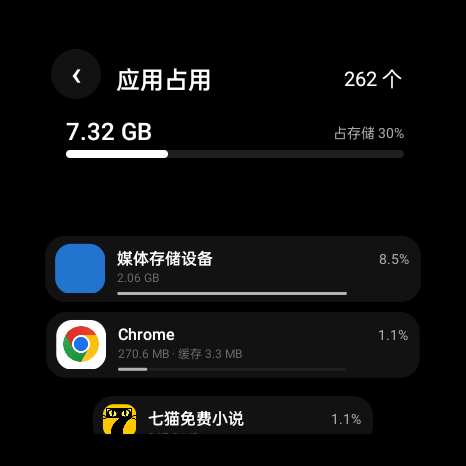
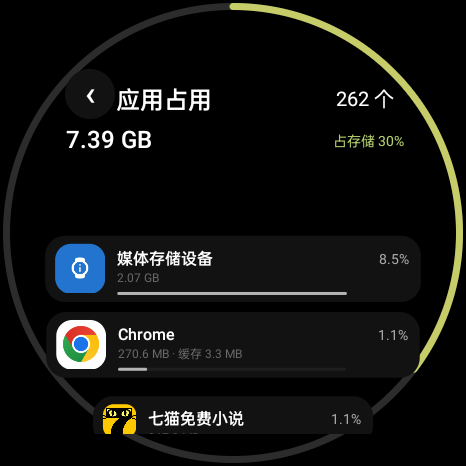
README 更新到 v2.1.3：表圈圆环/动效选择/方表双布局/MediaSession/WMA 转码/设置页；截图换新

diff --git a/README.md b/README.md
@@ -1,35 +1,43 @@
 # WatchSuite · 腕上管家
 
-一款为**圆形智能手表**打造的本地工具合集：纯 Java + Canvas 手绘界面，零第三方依赖，不联网、无广告，APK 仅 ~81KB。
+一款为**智能手表**打造的本地工具合集：纯 Java + Canvas 手绘界面，零第三方依赖，不联网、无广告。
 
 <p align="center">
-  <img src="docs/home.png" width="220" alt="主界面" />
-  <img src="docs/files.png" width="220" alt="文件" />
+  <img src="docs/home.png" width="220" alt="主界面（表圈空间圆环）" />
   <img src="docs/apps.png" width="220" alt="应用占用" />
+  <img src="docs/storage.png" width="220" alt="存储分析" />
+  <img src="docs/settings.png" width="220" alt="设置" />
 </p>
 
 ## 特性
 
-- **圆盘转场**：子页面像一块实心圆盘从侧面滑入，黑底与内容同步移动；主界面同样是一块圆盘，在空白处一划即整盘滑出回表盘
-- **层叠卡片流**：列表项离屏幕中心越远越窄、越小，滚动时自然聚焦
-- **全分辨率适配**：UI 全部按 466×466 逻辑坐标绘制，按 `min(w,h)/466` 整体缩放，任意圆表自动适配；首次启动可切换方表模式（转场面板变圆角矩形）
+- **表圈空间圆环**：主界面和各统计页把存储紧张度画成一圈绕表圆环，绿 → 黄 → 红 随占用率渐变；纯装饰不抢触摸，右滑返回手感不受影响。可在设置里改为「固定最上端」的细横条，避免列表滑动时视觉干扰
+- **两种列表动效**（方圆表互通，随意切换）：圆弧透视（上下两端收拢聚焦）/ 等底信息流（满宽平铺）
+- **方 / 圆双布局层**：圆表 2 列磁贴、方表 3 列磁贴（3+3+2），各自独立排版，一套代码自动适配
+- **圆盘转场**：子页面像一块实心圆盘从侧面滑入；主界面在空白处一划即整盘滑出回表盘
+- **媒体会话接入**：播放音乐时系统把应用识别为媒体应用——表盘出现媒体卡片、通知栏三按钮（上一首 / 暂停 / 下一首），任何界面随时可控暂停
+- **WMA 自动转码**：WMA 音频播放时自动用内置 FFmpeg 转码（带缓存，转一次后续直接秒开），转码完成后列表即显示时长
 - **帧率自适配**：自动请求同分辨率下的最高刷新率
-- **零依赖**：不用任何第三方库，几乎全部界面为 Canvas 手绘
+- **零第三方框架依赖**：界面全部 Canvas 手绘，仅音频转码内置 FFmpegKit
 
 ## 八个模块
 
 | 模块 | 说明 |
 |---|---|
 | 文件 | 目录浏览、两级加载（先出目录再算体积）、打开 / 安装 / 分享 / 删除 |
-| 应用 | 已装应用列表与存储占用排行（安装包 / 数据 / 缓存拆解） |
+| 应用 | 已装应用列表与存储占用排行（安装包 / 数据 / 缓存拆解，支持系统详情直达） |
 | 视频 | 扫描本机视频，内置播放器（双指缩放 / 拖动 / 进度条） |
-| 音乐 | 本地音乐扫描播放、可拖进度条、上下首切换、显示时长（关闭播放页即停止） |
+| 音乐 | 本地音乐扫描播放、可拖进度条、上下首切换、WMA 自动转码、后台续播开关、媒体会话控件 |
 | 相册 | 图片网格浏览、全屏查看 |
 | 清理 | 缓存与垃圾文件扫描清理 |
-| 分析 | 存储分类统计 + 大文件 TOP5 |
+| 分析 | 存储分类统计 + 大文件 TOP5，全盘占用表圈指示 |
 | 快传 | 局域网 HTTP 传输，手机浏览器直接访问手表收发文件 |
 
-> 音乐目前是「打开播放页才播放、关掉就停」，不会在后台继续出声。后台续播以后会做成开关。
+> 设置入口在「关于」页：列表动效、空间条位置、后台续播、表盘形状。
+
+## 版本号规则
+
+三段式 `X.Y.Z`：**Y = 新功能 +1，Z = 修 bug +1**；versionCode 独立连续递增。当前 **v2.1.3**。
 
 ## 关于「读取应用列表」权限
 
@@ -40,7 +48,7 @@
 需要 JDK 17+、Android SDK（compileSdk 35）。
 
 ```bash
-git clone https://github.com/<your-name>/WatchSuite.git
+git clone https://github.com/muqiu128/WatchSuite.git
 cd WatchSuite
 # 在 local.properties 里写 sdk.dir=你的 Android SDK 路径
 ./gradlew assembleDebug
@@ -59,7 +67,7 @@ adb install -r app-debug.apk
 ## 兼容性
 
 - Android 8.0（API 26）及以上
-- 一加手表 2（OPWW234，466×466）实机验证；任意分辨率圆表、方表均可运行
+- 一加手表 2（OPWW234，466×466 圆表）实机验证；任意分辨率圆表、方表均可运行
 
 ## 隐私
 
